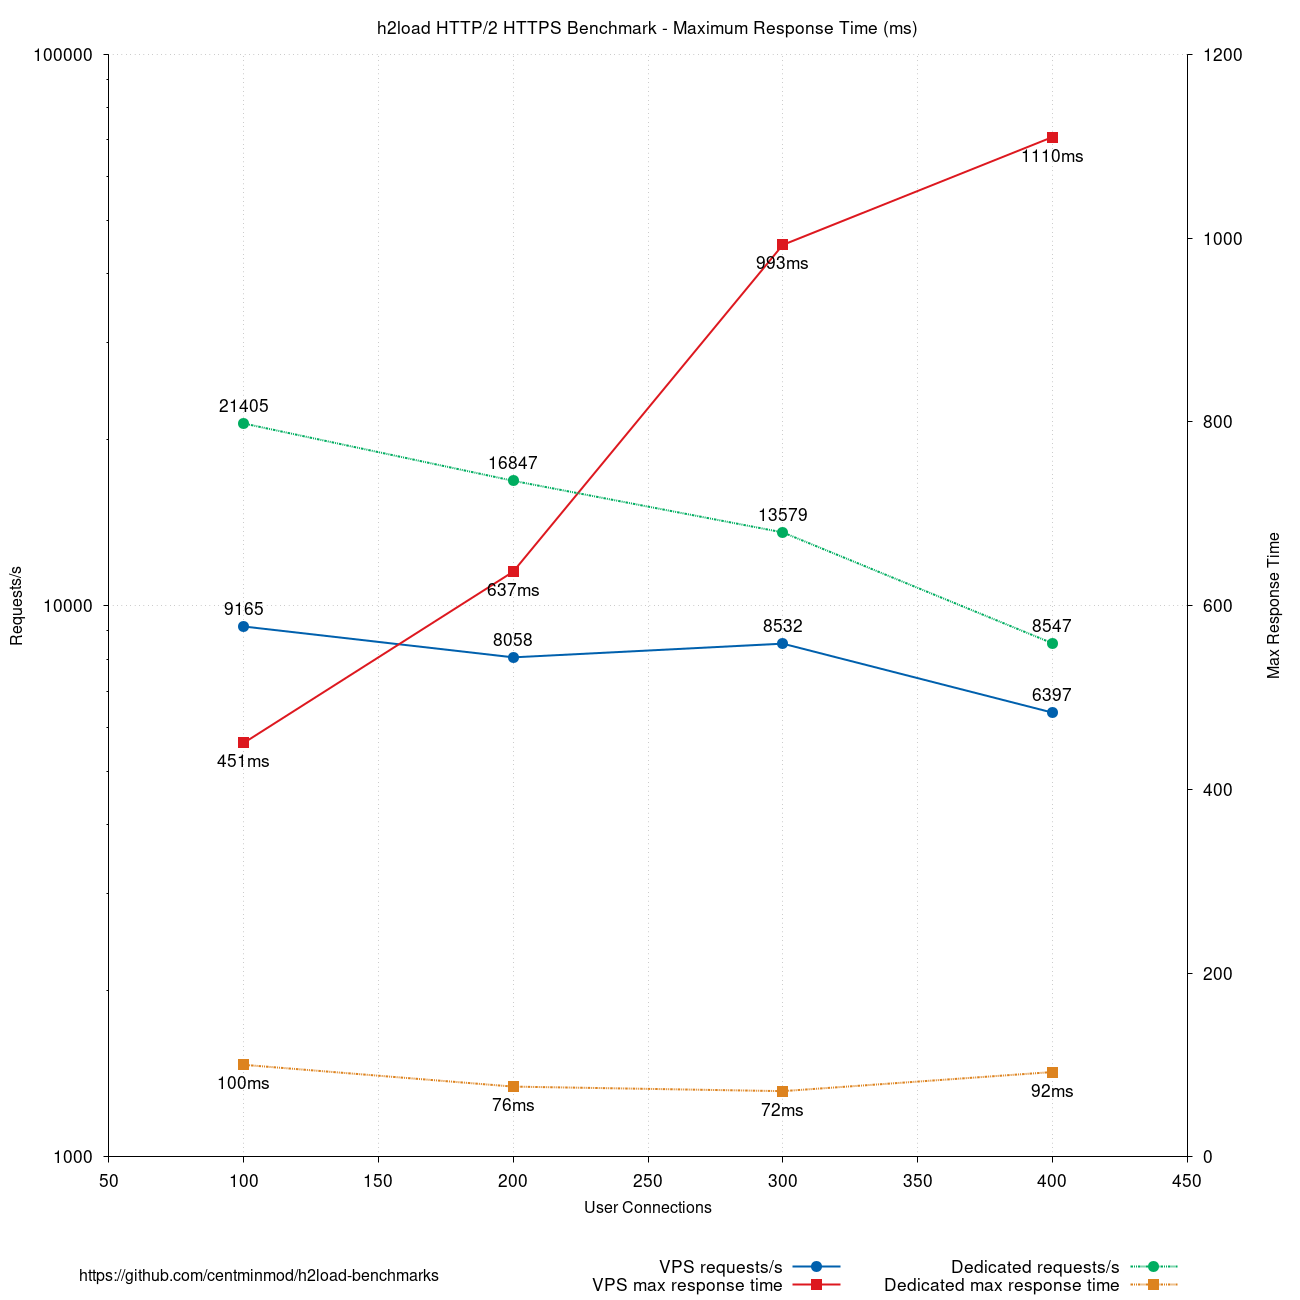
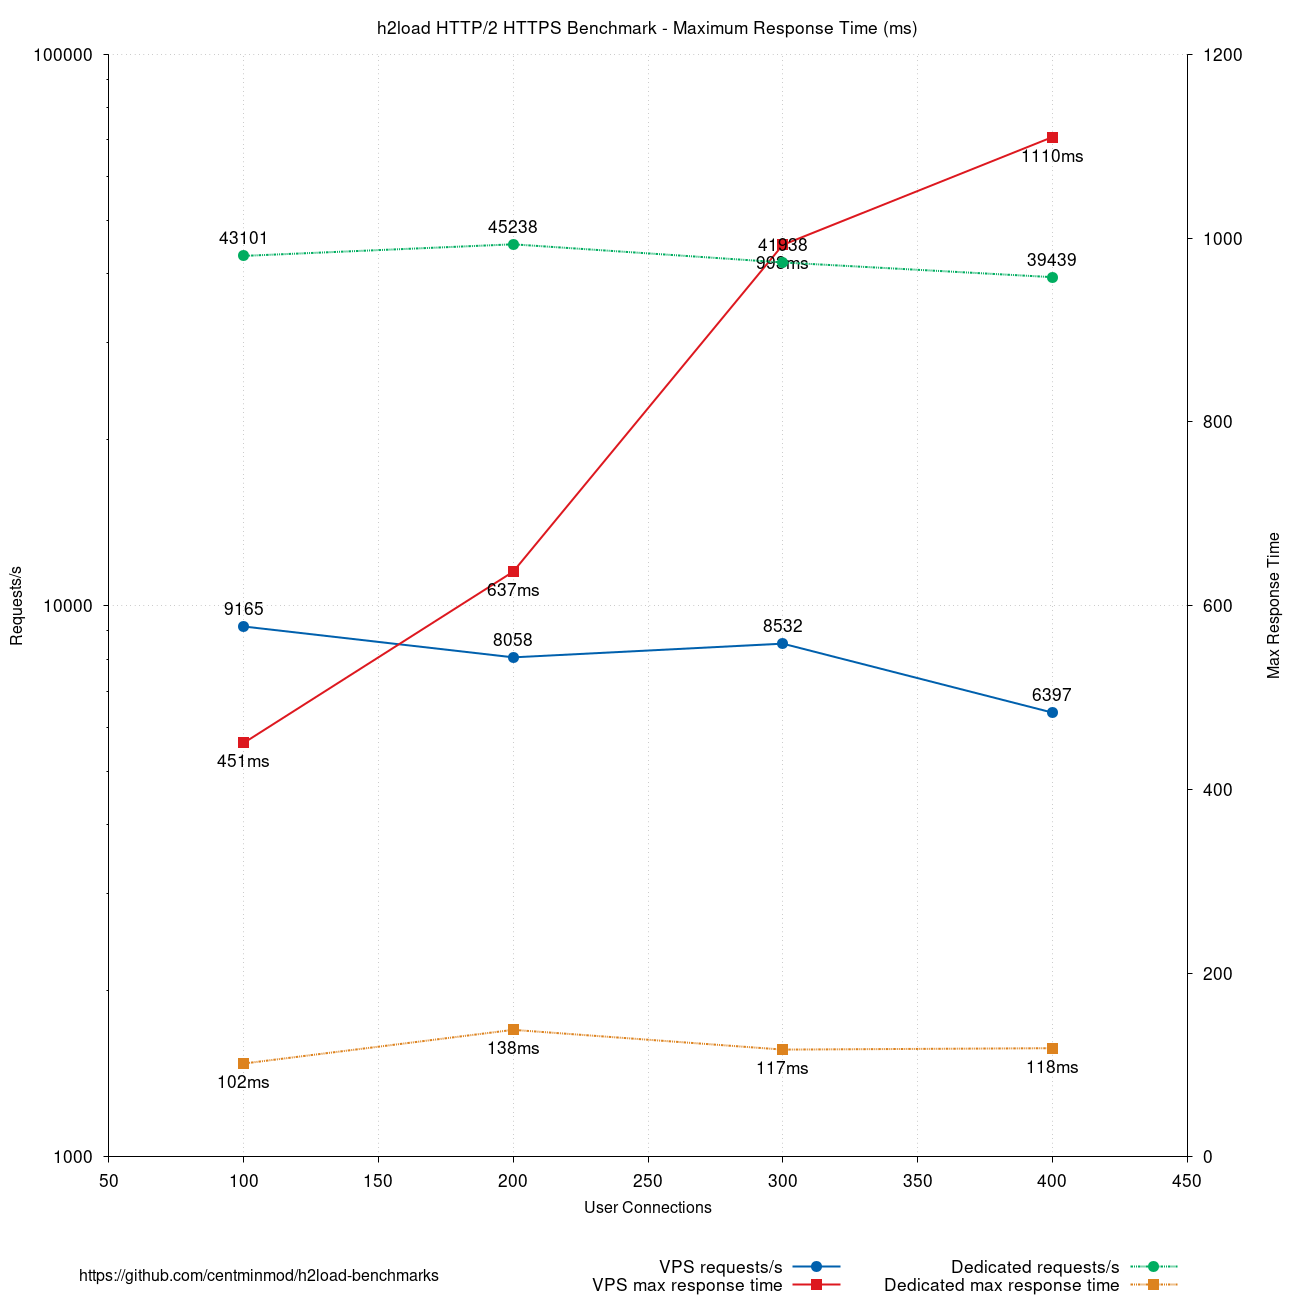
update benchmark examples

diff --git a/readme.md b/readme.md
@@ -451,11 +451,11 @@ Flags:               fpu vme de pse tsc msr pae mce cx8 apic sep mtrr pge mca cm
 Run `h2load-bench.sh` wrapper script with h2load with 1 thread `-t 1`.
 
 ```
-./h2load-bench.sh -t 1 -c 400 -n 10000 -b -u https://domain.com | jq
+./h2load-bench.sh -t 3 -c 400 -n 10000 -b -u https://domain.com | jq
 {
-  "time": "467.18ms",
-  "req_per_sec": "21404.98",
-  "mbs": "5.07MB/s",
+  "time": "232.01ms",
+  "req_per_sec": "43100.85",
+  "mbs": "93.12MB/s",
   "total_req": "10000",
   "started_req": "10000",
   "done_req": "10000",
@@ -463,46 +463,46 @@ Run `h2load-bench.sh` wrapper script with h2load with 1 thread `-t 1`.
   "failed_req": "0",
   "errored_req": "0",
   "timeout_req": "0",
-  "status_2xx": "0",
-  "status_3xx": "10000",
+  "status_2xx": "10000",
+  "status_3xx": "0",
   "status_4xx": "0",
   "status_5xx": "0",
-  "total_traffic": "2.37MB",
-  "header_traffic": "664.06KB",
-  "data_traffic": "1.54MB",
-  "req_min": "31.08",
-  "req_max": "100.24",
-  "req_mean": "43.54",
-  "req_sd": "13.71ms",
-  "req_sd_pct": "83.02%",
-  "conn_min": "103.55",
-  "conn_max": "337.32",
-  "conn_mean": "182.56",
-  "conn_sd": "66.29ms",
-  "conn_sd_pct": "66.00%",
-  "first_byte_min": "137.39",
-  "first_byte_max": "368.60",
-  "first_byte_mean": "222.40",
-  "first_byte_sd": "66.19ms",
-  "first_byte_sd_pct": "64.00%",
-  "req_s_min": "215.11",
-  "req_s_max": "399.43",
-  "req_s_mean": "299.18",
-  "req_s_sd": "49.32",
-  "req_s_sd_pct": "49.32",
-  "cipher": "ECDHE-RSA-AES256-GCM-SHA384",
-  "tempkey": "ECDH",
+  "total_traffic": "21.61MB",
+  "header_traffic": "1.97MB",
+  "data_traffic": "19.45MB",
+  "req_min": "0.26",
+  "req_max": "101.58",
+  "req_mean": "49.10",
+  "req_sd": "21.76ms",
+  "req_sd_pct": "61.35%",
+  "conn_min": "3.41",
+  "conn_max": "57.55",
+  "conn_mean": "13.98",
+  "conn_sd": "8.60ms",
+  "conn_sd_pct": "86.00%",
+  "first_byte_min": "18.64",
+  "first_byte_max": "127.35",
+  "first_byte_mean": "47.10",
+  "first_byte_sd": "22.96ms",
+  "first_byte_sd_pct": "63.00%",
+  "req_s_min": "424.95",
+  "req_s_max": "1345.96",
+  "req_s_mean": "563.78",
+  "req_s_sd": "225.18",
+  "req_s_sd_pct": "225.18",
+  "cipher": "TLS_AES_256_GCM_SHA384",
+  "tempkey": "X25519",
   "protocol": "h2",
-  "threads": "1",
+  "threads": "3",
   "connections": "100",
   "duration": "null",
   "warm_up_time": "null",
   "requests": "10000"
 }
 {
-  "time": "593.58ms",
-  "req_per_sec": "16846.90",
-  "mbs": "4.00MB/s",
+  "time": "221.05ms",
+  "req_per_sec": "45238.43",
+  "mbs": "97.76MB/s",
   "total_req": "10000",
   "started_req": "10000",
   "done_req": "10000",
@@ -510,46 +510,46 @@ Run `h2load-bench.sh` wrapper script with h2load with 1 thread `-t 1`.
   "failed_req": "0",
   "errored_req": "0",
   "timeout_req": "0",
-  "status_2xx": "0",
-  "status_3xx": "10000",
+  "status_2xx": "10000",
+  "status_3xx": "0",
   "status_4xx": "0",
   "status_5xx": "0",
-  "total_traffic": "2.37MB",
-  "header_traffic": "664.06KB",
-  "data_traffic": "1.54MB",
-  "req_min": "31.10",
-  "req_max": "76.50",
-  "req_mean": "42.94",
-  "req_sd": "13.26ms",
-  "req_sd_pct": "80.16%",
-  "conn_min": "100.33",
-  "conn_max": "515.43",
-  "conn_mean": "295.91",
-  "conn_sd": "129.37ms",
-  "conn_sd_pct": "52.50%",
-  "first_byte_min": "139.46",
-  "first_byte_max": "546.88",
-  "first_byte_mean": "332.58",
-  "first_byte_sd": "127.40ms",
-  "first_byte_sd_pct": "53.00%",
-  "req_s_min": "84.66",
-  "req_s_max": "276.89",
-  "req_s_mean": "147.92",
-  "req_s_sd": "53.40",
-  "req_s_sd_pct": "53.40",
-  "cipher": "ECDHE-RSA-AES256-GCM-SHA384",
-  "tempkey": "ECDH",
+  "total_traffic": "21.61MB",
+  "header_traffic": "1.97MB",
+  "data_traffic": "19.45MB",
+  "req_min": "0.503",
+  "req_max": "138.31",
+  "req_mean": "65.04",
+  "req_sd": "28.23ms",
+  "req_sd_pct": "61.28%",
+  "conn_min": "3.90",
+  "conn_max": "132.27",
+  "conn_mean": "26.85",
+  "conn_sd": "18.40ms",
+  "conn_sd_pct": "92.50%",
+  "first_byte_min": "35.87",
+  "first_byte_max": "197.16",
+  "first_byte_mean": "82.18",
+  "first_byte_sd": "37.62ms",
+  "first_byte_sd_pct": "63.50%",
+  "req_s_min": "226.51",
+  "req_s_max": "1043.53",
+  "req_s_mean": "319.90",
+  "req_s_sd": "92.43",
+  "req_s_sd_pct": "92.43",
+  "cipher": "TLS_AES_256_GCM_SHA384",
+  "tempkey": "X25519",
   "protocol": "h2",
-  "threads": "1",
+  "threads": "3",
   "connections": "200",
   "duration": "null",
   "warm_up_time": "null",
   "requests": "10000"
 }
 {
-  "time": "736.42ms",
-  "req_per_sec": "13579.24",
-  "mbs": "3.23MB/s",
+  "time": "238.45ms",
+  "req_per_sec": "41937.86",
+  "mbs": "90.65MB/s",
   "total_req": "10000",
   "started_req": "10000",
   "done_req": "10000",
@@ -557,46 +557,46 @@ Run `h2load-bench.sh` wrapper script with h2load with 1 thread `-t 1`.
   "failed_req": "0",
   "errored_req": "0",
   "timeout_req": "0",
-  "status_2xx": "0",
-  "status_3xx": "10000",
+  "status_2xx": "10000",
+  "status_3xx": "0",
   "status_4xx": "0",
   "status_5xx": "0",
-  "total_traffic": "2.38MB",
-  "header_traffic": "664.06KB",
-  "data_traffic": "1.54MB",
-  "req_min": "31.09",
-  "req_max": "71.56",
-  "req_mean": "44.84",
-  "req_sd": "14.40ms",
-  "req_sd_pct": "71.63%",
-  "conn_min": "100.50",
-  "conn_max": "669.54",
-  "conn_mean": "366.70",
-  "conn_sd": "168.09ms",
-  "conn_sd_pct": "57.33%",
-  "first_byte_min": "134.46",
-  "first_byte_max": "700.78",
-  "first_byte_mean": "402.51",
-  "first_byte_sd": "167.21ms",
-  "first_byte_sd_pct": "57.00%",
-  "req_s_min": "45.07",
-  "req_s_max": "197.65",
-  "req_s_mean": "90.84",
-  "req_s_sd": "41.90",
-  "req_s_sd_pct": "41.90",
-  "cipher": "ECDHE-RSA-AES256-GCM-SHA384",
-  "tempkey": "ECDH",
+  "total_traffic": "21.61MB",
+  "header_traffic": "1.97MB",
+  "data_traffic": "19.45MB",
+  "req_min": "0.577",
+  "req_max": "116.77",
+  "req_mean": "53.87",
+  "req_sd": "21.94ms",
+  "req_sd_pct": "63.34%",
+  "conn_min": "20.56",
+  "conn_max": "165.39",
+  "conn_mean": "73.63",
+  "conn_sd": "43.30ms",
+  "conn_sd_pct": "61.67%",
+  "first_byte_min": "58.70",
+  "first_byte_max": "220.93",
+  "first_byte_mean": "126.92",
+  "first_byte_sd": "47.64ms",
+  "first_byte_sd_pct": "57.67%",
+  "req_s_min": "140.89",
+  "req_s_max": "275.23",
+  "req_s_mean": "193.71",
+  "req_s_sd": "34.96",
+  "req_s_sd_pct": "34.96",
+  "cipher": "TLS_AES_256_GCM_SHA384",
+  "tempkey": "X25519",
   "protocol": "h2",
-  "threads": "1",
+  "threads": "3",
   "connections": "300",
   "duration": "null",
   "warm_up_time": "null",
   "requests": "10000"
 }
 {
-  "time": "1.17s",
-  "req_per_sec": "8547.27",
-  "mbs": "2.04MB/s",
+  "time": "253.56ms",
+  "req_per_sec": "39439.02",
+  "mbs": "85.26MB/s",
   "total_req": "10000",
   "started_req": "10000",
   "done_req": "10000",
@@ -604,37 +604,37 @@ Run `h2load-bench.sh` wrapper script with h2load with 1 thread `-t 1`.
   "failed_req": "0",
   "errored_req": "0",
   "timeout_req": "0",
-  "status_2xx": "0",
-  "status_3xx": "10000",
+  "status_2xx": "10000",
+  "status_3xx": "0",
   "status_4xx": "0",
   "status_5xx": "0",
-  "total_traffic": "2.38MB",
-  "header_traffic": "664.06KB",
-  "data_traffic": "1.54MB",
-  "req_min": "31.21",
-  "req_max": "92.35",
-  "req_mean": "42.34",
-  "req_sd": "13.38ms",
-  "req_sd_pct": "82.62%",
-  "conn_min": "100.24",
-  "conn_max": "1100",
-  "conn_mean": "511.95",
-  "conn_sd": "271.72ms",
-  "conn_sd_pct": "62.50%",
-  "first_byte_min": "134.98",
-  "first_byte_max": "1130",
-  "first_byte_mean": "548.87",
-  "first_byte_sd": "269.88ms",
-  "first_byte_sd_pct": "62.00%",
-  "req_s_min": "21.45",
-  "req_s_max": "179.42",
-  "req_s_mean": "58.51",
-  "req_s_sd": "35.19",
-  "req_s_sd_pct": "35.19",
-  "cipher": "ECDHE-RSA-AES256-GCM-SHA384",
-  "tempkey": "ECDH",
+  "total_traffic": "21.62MB",
+  "header_traffic": "1.97MB",
+  "data_traffic": "19.45MB",
+  "req_min": "12.21",
+  "req_max": "118.32",
+  "req_mean": "53.53",
+  "req_sd": "22.87ms",
+  "req_sd_pct": "70.19%",
+  "conn_min": "15.00",
+  "conn_max": "166.24",
+  "conn_mean": "76.29",
+  "conn_sd": "39.52ms",
+  "conn_sd_pct": "59.25%",
+  "first_byte_min": "57.12",
+  "first_byte_max": "250.64",
+  "first_byte_mean": "129.16",
+  "first_byte_sd": "52.36ms",
+  "first_byte_sd_pct": "55.50%",
+  "req_s_min": "99.58",
+  "req_s_max": "435.06",
+  "req_s_mean": "226.64",
+  "req_s_sd": "97.16",
+  "req_s_sd_pct": "97.16",
+  "cipher": "TLS_AES_256_GCM_SHA384",
+  "tempkey": "X25519",
   "protocol": "h2",
-  "threads": "1",
+  "threads": "3",
   "connections": "400",
   "duration": "null",
   "warm_up_time": "null",
